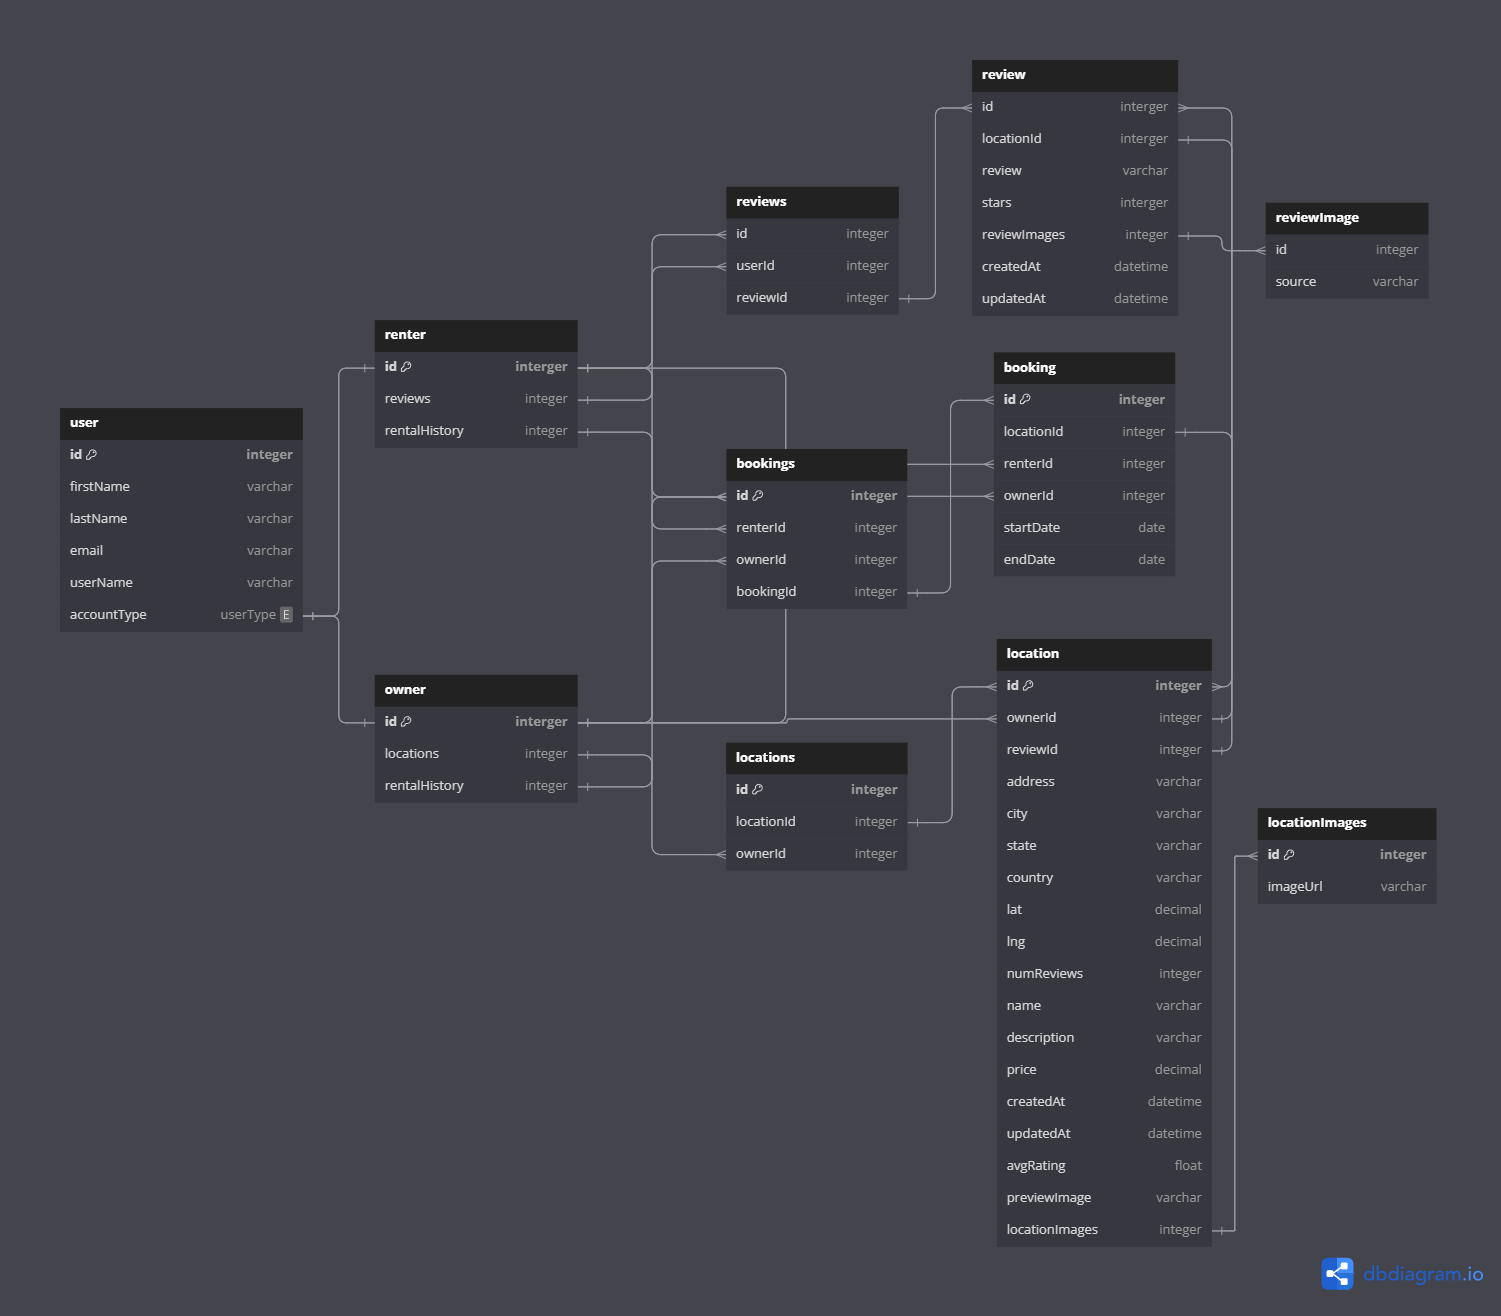
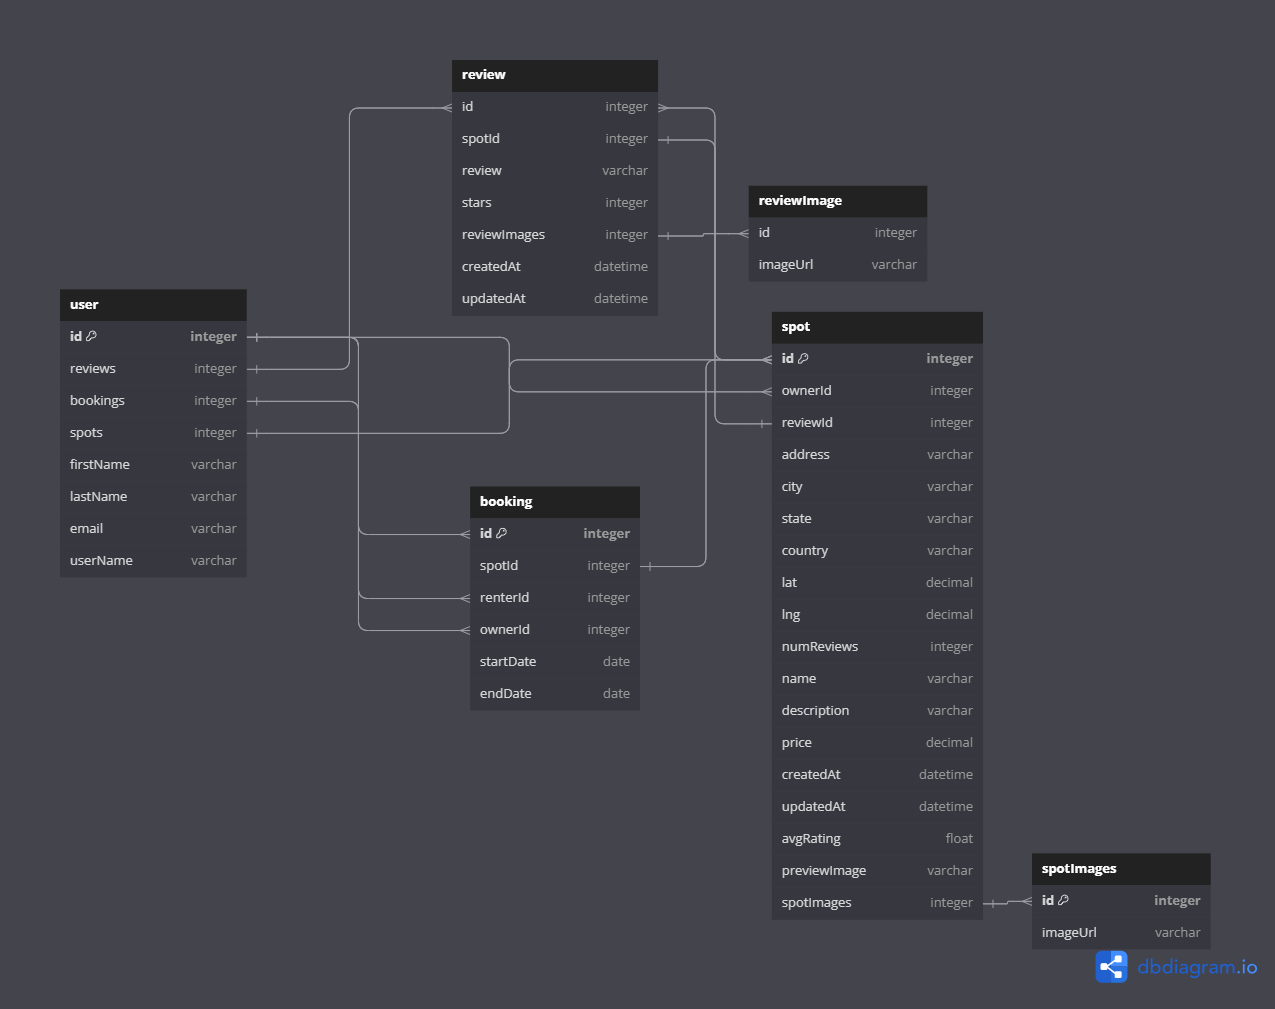
Add tables for user, review, spot, booking, reviewImage, and spotImages

diff --git a/tables.md b/tables.md
@@ -1,0 +1,72 @@
+Table user {
+id integer [primary key]
+reviews integer
+bookings integer
+spots integer
+firstName varchar
+lastName varchar
+email varchar
+userName varchar
+}
+
+Table review {
+id integer
+spotId integer
+review varchar
+stars integer
+reviewImages integer
+createdAt datetime
+updatedAt datetime
+}
+
+Table reviewImage {
+id integer
+imageUrl varchar
+}
+
+Table spot {
+id integer [primary key]
+ownerId integer
+reviewId integer
+address varchar
+city varchar
+state varchar
+country varchar
+lat decimal
+lng decimal
+numReviews integer
+name varchar
+description varchar
+price decimal
+createdAt datetime
+updatedAt datetime
+avgRating float
+previewImage varchar
+spotImages integer
+}
+
+Table booking {
+id integer [primary key]
+spotId integer
+renterId integer
+ownerId integer
+startDate date
+endDate date
+}
+
+Table spotImages {
+id integer [primary key]
+imageUrl varchar
+}
+
+Ref: "spot"."spotImages" < "spotImages"."id"
+Ref: "spot"."reviewId" < "review"."id"
+Ref: "review"."reviewImages" < "reviewImage"."id"
+Ref: "review"."spotId" < "spot"."id"
+Ref: "user"."id" < "booking"."renterId"
+Ref: "user"."id" < "booking"."ownerId"
+Ref: "booking"."spotId" < "spot"."id"
+Ref: "user"."id" < "spot"."ownerId"
+Ref: "user"."reviews" < "review"."id"
+Ref: "user"."bookings" < "booking"."id"
+Ref: "user"."spots" < "spot"."id"
